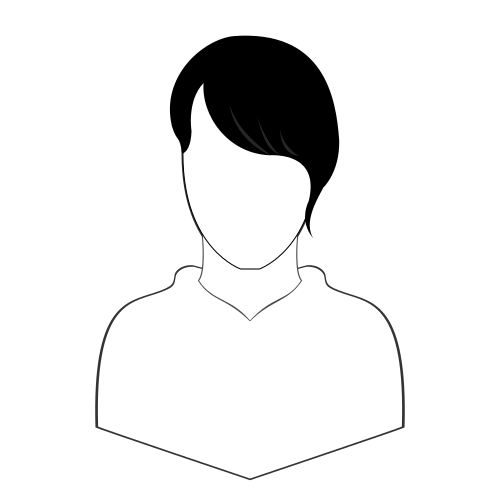
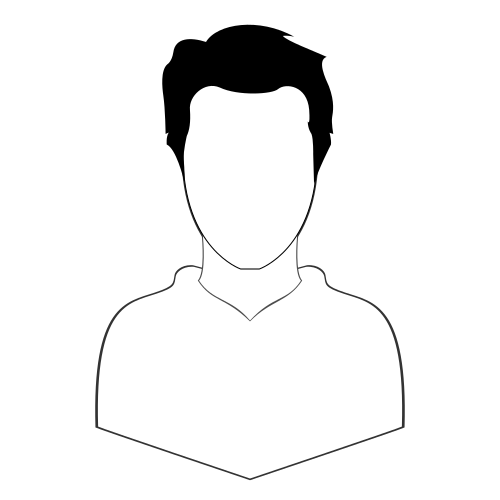
Intégration pagination

Changed region(s): [[0.3, 0.03, 0.69, 0.48]]

diff --git a/pages/user/avatar.vue b/pages/user/avatar.vue
@@ -15,10 +15,11 @@
                     </div>
                     <!-- Modal body -->
                     <div id="modalBoxContent" class="modal-body">
+
                         <div class="flex-container-modal-MyTeam">
                             <h1>{{ $t('pages.user-avatar.want_to_change_your_mind') }}</h1>
                         </div>
-						<div class="flex-container-modalAvatar">
+						<div class="flex-container-modalAvatar" v-cloak>
 							<div class="flex-container-modalMenuAvatar no-border">
 								<div style="flex-grow: 1; cursor: pointer;" :class="{active: this.gender === 'female'}" @click="selectGender('female')"><span class="textModalMenuAvatar">{{ $t('pages.user-avatar.female') }}</span></div>
 								<div style="flex-grow: 1; cursor: pointer;" :class="{active: this.gender === 'male'}" @click="selectGender('male')"><span class="textModalMenuAvatar">{{ $t('pages.user-avatar.male') }}</span></div>
@@ -37,28 +38,53 @@
 								<div style="flex-grow: 1; cursor: pointer;" :class="{active: this.bodyPart === 'hair'}" @click="selectBodyPart('hair')"><span class="textModalMenuAvatar">{{ $t('pages.user-avatar.hair') }}</span></div>
 							</div>
                         </div>
-                        <!-- <p style="color: #000;">{{ this.hair }}</p> -->
-                        <p style="color: #000;">{{ this.face }}</p>
-                        <!-- <p style="color: #000;">{{ this.haircut }}</p> -->
-                        <!-- <p style="color: #000;">{{ this.haircolor }}</p> -->
+
+                        <br /><br />
+                        <!-- Display dummy text while loading -->
+                        <div v-if="loadedAvatars.length == 0">
+                            <h1 class="text-center" style="color: #000;">Loading...</h1>
+                            <!-- <content-placeholders>
+                                <content-placeholders-heading :img="true" />
+                                <content-placeholders-text :lines="3" />
+                            </content-placeholders> -->
+                        </div>
+
                         <div class="flex-container-modalAvatarImg" v-if="this.bodyPart === 'hair'">
-                            <!-- <div class="col-md-6" style="cursor: pointer; background: yellow">yellow</div> -->
-                            <!-- <div class="col-md-6" style="cursor: pointer; background: red">red</div> -->
+                            <p style="color: #000;">{{ this.hair }}</p>
                             <div style="width: 50%;">
-                                <div v-for="avatar in loadedAvatars.filter(avatar => avatar.property === 'haircut')" style="cursor: pointer;" @click="addToMerge(avatar.gender, avatar.type, avatar.image, avatar.imageSmall, avatar.name)"><img :src="'/images/avatars/' + avatar.gender + '/' + avatar.type + '/' + avatar.imageSmall" class="imgModalAvatar" /></div>
+                                <div v-for="avatar in loadedAvatars.filter(avatar => avatar.property === 'haircut')" style="cursor: pointer;" @click="addToMerge(avatar.gender, avatar.type, avatar.image, avatar.imageSmall, avatar.name)"><img :src="'/images/avatars/' + avatar.gender + '/' + avatar.type + '/' + avatar.imageSmall" class="imgModalAvatar" :class="{active: (avatar.name === 'hair_cut' + haircut) }" /></div>
+                                }
                             </div>
                             <div style="width: 50%;">
-                                <div v-for="avatar in loadedAvatars.filter(avatar => avatar.property === 'color')" style="cursor: pointer;" @click="addToMerge(avatar.gender, avatar.type, avatar.image, avatar.imageSmall, avatar.name)"><img :src="'/images/avatars/' + avatar.gender + '/' + avatar.type + '/' + avatar.imageSmall" class="imgModalAvatar" /></div>
+                                <div v-for="avatar in loadedAvatars.filter(avatar => avatar.property === 'color')" style="cursor: pointer;" @click="addToMerge(avatar.gender, avatar.type, avatar.image, avatar.imageSmall, avatar.name)"><img :src="'/images/avatars/' + avatar.gender + '/' + avatar.type + '/' + avatar.imageSmall" class="imgModalAvatar" :class="{active: (avatar.name === 'hair_color' + haircolor) }" /></div>
+                            </div>
+                        </div>
+                        <div class="flex-container-modalAvatarImg" v-else>
+                            <div v-for="avatar in loadedAvatars2" style="cursor: pointer;" @click="addToMerge(avatar.gender, avatar.type, avatar.image, avatar.imageSmall, avatar.name)"><img :src="'/images/avatars/' + avatar.gender + '/' + avatar.type + '/' + avatar.imageSmall" class="imgModalAvatar" :class="{active: (avatar.name === background ||  avatar.name === body || avatar.name === skin || avatar.name === eyes || avatar.name === mouth || avatar.name === face || avatar.name === hair) }" />
                             </div>
                         </div>
 
-                        <br /><br /><hr><br /><br />
-
-                        <div class="flex-container-modalAvatarImg">
-                            <div v-for="avatar in loadedAvatars" style="cursor: pointer;" @click="addToMerge(avatar.gender, avatar.type, avatar.image, avatar.imageSmall, avatar.name)"><img :src="'/images/avatars/' + avatar.gender + '/' + avatar.type + '/' + avatar.imageSmall" class="imgModalAvatar" :class="{active: (avatar.name === background ||  avatar.name === body || avatar.name === skin || avatar.name === eyes || avatar.name === mouth || avatar.name === face || avatar.name === hair) }" />
+                         <div style="color: #000;">
+                                <h3>loadedAvatars.length: {{ loadedAvatars.length }}</h3><br />
+                                <h3>totalPages: {{ totalPages }}</h3><br />
+                                <!-- <h3>avatars: {{ this.avatars }}</h3><br /> -->
                             </div>
-                        </div>
-                        
+
+                        <br /><br /><hr><br />
+                        <paginate
+                              :page-count="totalPages"
+                              :click-handler="changePage"
+                              :prev-text="'Prev'"
+                              :next-text="'Next'"
+                              :container-class="'pagination pagination-sm'"
+                              :page-class="'page-item'" 
+                              :prev-class="'page-item'" 
+                              :next-class="'page-item'"
+                              :page-link-class="'page-link'" 
+                              :prev-link-class="'page-link'" 
+                              :next-link-class="'page-link'"
+                            >
+                        </paginate>
                     </div>
                     <!-- Modal footer -->
                     <div class="modal-footer">
@@ -82,8 +108,12 @@
     import mergeImages from 'merge-images'
     import moment from 'moment'
     import Noty from 'noty'
+    // import contentPlaceholders from '~/plugins/vue-placeholders.js'
+    import Paginate from 'vuejs-paginate'
     export default {
         layout: 'layoutFront',
+        // components: { contentPlaceholders },
+        components: { Paginate },
         created () {
             const avatarsArray = []
             firebase.database().ref('avatars').once('value', function (snapshot) {
@@ -98,8 +128,7 @@
             if (this.$store.getters['users/loadedUser'].avatar) {
                 const array = this.$store.getters['users/loadedUser'].avatar.name.split('_')
                 console.log(array)
-                if (array.length >= 11) {
-                    this.gender = ''
+                if (array.length >= 9) {
                     this.gender = array[1]
                     this.background = array[2]
                     this.body = array[3]
@@ -109,8 +138,10 @@
                     this.face = array[7]
                     // this.cache = array[8]
                     this.hair = array[8]
-					this.cache = array[9]
-					this.thisisfan = array[10]
+                    this.haircut = this.hair ? this.hair.match(/\d+/)[0].substr(0, 2) : '01'
+                    this.haircolor = this.hair ? this.hair.match(/\d+/)[0].substr(2, 4) : '01'
+					// this.cache = array[9]
+					// this.thisisfan = array[10]
 
                     this.obj = [
                         { "image": '/images/avatars/' + this.gender + '/background/' + this.background + '.png', 'gender': this.gender, 'type': 'background' },
@@ -121,12 +152,29 @@
                         { 'image': '/images/avatars/' + this.gender + '/face/' + this.face + '.png', 'gender': this.gender, 'type': 'face' }, 
                         // { 'image': '/images/avatars/' + this.gender + '/cache/' + this.cache + '.png', 'gender': this.gender, 'type': 'cache' }, 
                         { 'image': '/images/avatars/' + this.gender + '/hair/' + this.hair + '.png', 'gender': this.gender, 'type': 'hair' },
-						{ 'image': '/images/avatars/' + this.gender + '/cache/' + 'cache.png', 'gender': this.gender, 'type': 'cache' },
-						{ 'image': '/images/avatars/' + this.gender + '/thisisfan/' + 'thisisfan.png', 'gender': this.gender, 'type': 'thisisfan' }
+						// { 'image': '/images/avatars/' + this.gender + '/cache/' + 'cache.png', 'gender': this.gender, 'type': 'cache' },
+						// { 'image': '/images/avatars/' + this.gender + '/thisisfan/' + 'thisisfan.png', 'gender': this.gender, 'type': 'thisisfan' }
                     ]
+                    // console.log(this.hair)
+                    // console.log(this.haircut)
+                    // console.log(this.haircolor)
                     this.mergeImages()
-                }
-                // console.log(array)
+                } 
+            } else { // No previous avatar is registered
+                console.log('No defined avatar yet')
+                this.obj = [
+                    { "image": '/images/avatars/' + this.gender + '/background/' + this.background + '.png', 'gender': this.gender, 'type': 'background' },
+                    { 'image': '/images/avatars/' + this.gender + '/body/' + this.body + '.png', 'gender': this.gender, 'type': 'body' },
+                    { 'image': '/images/avatars/' + this.gender + '/skin/' + this.skin + '.png', 'gender': this.gender, 'type': 'skin' },
+                    { 'image': '/images/avatars/' + this.gender + '/eyes/' + this.eyes + '.png', 'gender': this.gender, 'type': 'eyes' }, 
+                    { 'image': '/images/avatars/' + this.gender + '/mouth/' + this.mouth + '.png', 'gender': this.gender, 'type': 'mouth' }, 
+                    { 'image': '/images/avatars/' + this.gender + '/face/' + this.face + '.png', 'gender': this.gender, 'type': 'face' }, 
+                    // { 'image': '/images/avatars/' + this.gender + '/cache/' + this.cache + '.png', 'gender': this.gender, 'type': 'cache' }, 
+                    { 'image': '/images/avatars/' + this.gender + '/hair/' + this.hair + '.png', 'gender': this.gender, 'type': 'hair' },
+                    { 'image': '/images/avatars/' + this.gender + '/cache/' + 'cache.png', 'gender': this.gender, 'type': 'cache' },
+                    { 'image': '/images/avatars/' + this.gender + '/thisisfan/' + 'thisisfan.png', 'gender': this.gender, 'type': 'thisisfan' }
+                ]
+                this.mergeImages()
             }
         },
         data () {
@@ -135,22 +183,24 @@
                 gender: 'female',
                 bodyPart: 'background',
                 name: '',
-                background: '',
-				body: '',
-                skin: '',
-                eyes: '',
-                mouth: '',
-                face: '',
+                background: 'background0',
+				body: 'body0',
+                skin: 'skin1',
+                eyes: 'eyes1',
+                mouth: 'mouth1',
+                face: 'face1',
                 // cache: '',
-                hair: '',
-                haircut: '',
-                haircolor: '',
+                hair: 'hair0101',
+                haircut: '01',
+                haircolor: '01',
 				cache: '',
 				thisisfan: '',
                 avatars: [],
                 arr: [],
                 obj: [],
-                progress: 0
+                progress: 0,
+                currentPage: 0,
+                itemsPerPage: 28,
             }
         },
         computed: {
@@ -160,11 +210,18 @@
             loadedAvatars () {
                 return this.avatars.filter(avatar => avatar.gender === this.gender && avatar.type === this.bodyPart)
             },
+            loadedAvatars2 () {
+                let index = this.currentPage * this.itemsPerPage
+                return this.avatars.filter(avatar => avatar.gender === this.gender && avatar.type === this.bodyPart).slice(index, index + this.itemsPerPage)
+            },
             disabled () {
-                return this.background == '' && this.body == '' && this.skin == '' && this.eyes == '' && this.mouth == '' && this.face == ''
+                return this.background == '' && this.body == '' && this.skin == '' && this.eyes == '' && this.mouth == '' && this.face == '' && this.hair == ''
             },
             loadedTeams () {
                 return this.$store.getters['teams/loadedTeams']
+            },
+            totalPages () {
+                return Math.ceil(this.loadedAvatars.length / this.itemsPerPage)
             }
         },
 	    methods: {
@@ -220,20 +277,16 @@
                 // } else if (name.includes('cache')) {
                 //  this.cache = name
                 } else if (name.includes('hair')) {
-                    console.log(name)
                     if (name.includes('hair_cut')) {
                         // Retrieve haircut integer in string
                         this.haircut = this.name.match(/\d+/)[0]
-                        console.log(this.haircut)
                     }
                     if (name.includes('hair_color')) {
                         // Retrieve haircolor integer in string
                         this.haircolor = this.name.match(/\d+/)[0]
-                        console.log(this.haircolor)
                     }
-                    console.log(this.name)
-                    console.log(image)
-                    image = 'hair' + this.haircut + this.haircolor + '.png'
+                    this.hair = 'hair' + this.haircut + this.haircolor
+                    image = this.hair + '.png'
                 } else if (name.includes('cache')) {
 					this.cache = name
 				} else if (name.include('thisisfan')) {
@@ -269,6 +322,7 @@
             },
             mergeImages() {
                 // Build an array of image paths from the object
+                // console.log('mergeImages')
                 this.arr = []
                 // this.arr = this.obj
                 for (let i = 0; i < this.obj.length; i++) {
@@ -289,7 +343,8 @@
                 // Save image in Firebase Cloud Storage
                 const now = moment().unix()
                 const userId = firebase.auth().currentUser.uid
-                const image_name = userId + '_' + this.gender + '_' + this.background + '_' + this.body + '_' + this.skin + '_' + this.eyes + '_' + this.mouth + '_' + this.face + '_' + this.hair + '_' + this.cache + '_' + this.thisisfan
+                // const image_name = userId + '_' + this.gender + '_' + this.background + '_' + this.body + '_' + this.skin + '_' + this.eyes + '_' + this.mouth + '_' + this.face + '_' + this.hair + '_' + this.cache + '_' + this.thisisfan
+                const image_name = userId + '_' + this.gender + '_' + this.background + '_' + this.body + '_' + this.skin + '_' + this.eyes + '_' + this.mouth + '_' + this.face + '_' + this.hair
                 console.log(image_name)
                 let storageRef = firebase.storage().ref('/images/avatars/' + image_name)
                 let image = this.$refs.mergedImage.src
@@ -314,23 +369,62 @@
                   console.log(error)
                   this.loading = false
                 }, () => {
+                    // Delete old avatar if it exists
+                    if (this.loadedUser.avatar) {
+                        var oldImageRef = firebase.storage().ref('/images/avatars/' + this.loadedUser.avatar.name)
+                        oldImageRef.delete().then(function() {
+                            console.log('Successfully deleted old image')
+                        }).catch(function(error) {
+                            console.log('An error occured and the old image could not be deleted:')
+                            console.log(error)
+                        })
+                    }
+
                     // Handle successful uploads on complete
                     firebase.database().ref('/users/' + userId + '/avatar').set({
                         name: uploadTask.snapshot.metadata.name,
                         url: uploadTask.snapshot.downloadURL,
                         updated_at: now,
                     })
+
                     // console.log('Uploaded a data_url string!')
                     this.loading = false
                     new Noty({type: 'success', text: 'Successfully uploaded image!', timeout: 5000, theme: 'metroui'}).show()
                 })
-            }
+            },
+            changePage (page) {
+                console.log(page)
+                this.currentPage = page
+                let index = this.currentPage * this.itemsPerPage
+                console.log(index)
+                console.log(this.loadedAvatars.slice(index, index + this.itemsPerPage))
+                this.loadedAvatars.slice(0, 0 + this.itemsPerPage)
+            },
         }
     }
 </script>
 
 <style scoped>
+    [v-cloak] > * { display:none; }
+    [v-cloak]::before { 
+        content: " ";
+        display: block;
+        width: 16px;
+        height: 16px;
[1 lines of base64/hex data omitted]
+    }
     .active {
         background-color: orangered;
+        border: 2px solid red;
+    }
+    .pagination {
+        margin: 0;
+    }
+    .page-link {
+        font-size: 12px !important;
+    }
+    .page-item.active .page-link {
+        background-color: #387BCA;
+        border-color: #387BCA;
     }
 </style>

diff --git a/pages/home.vue b/pages/home.vue
@@ -28,7 +28,8 @@
 		<div id="proprieteJoueur" class="col-12 col-sm-12 col-md-12 col-lg-12">
 
 			<div class="flex-container-playerPropriety">
-				<nuxt-link to="/user/avatar" class="boxShadow" style="flex-basis: 60px" v-if="user"><img src="" class="imgAvatar"/></nuxt-link>
+				<nuxt-link to="/user/avatar" class="boxShadow" style="flex-basis: 60px" v-if="user.avatar"><img :src="user.avatar.url" class="imgAvatar"/></nuxt-link>
+				<nuxt-link to="/user/avatar" class="boxShadow" style="flex-basis: 60px" v-else><img src="/images/avatar.png" class="imgAvatar"/></nuxt-link>
 				<nuxt-link to="/user" class="boxShadow flex-container-modalProfil" style="flex-grow: 1">
 					<div class="columnProfil"><img src="/images/163.png" class="imgModalProprieteFlags"/> <span class="modal-Propriete" v-if="user">{{ user.pseudo }}</span> <span class="modal-ProprietePlace boxShadow"><img src="/images/cup.png" class="imgModalProprieteCup"/> 1863ème</span></div>
 				</nuxt-link>

diff --git a/nuxt.config.js b/nuxt.config.js
@@ -178,6 +178,7 @@ module.exports = {
     { src: '~/plugins/vue-fullpage.js', ssr: false },
     // { src: '~/plugins/merge-images', ssr: false },
     { src: '~/plugins/vue2-jsoneditor.js', ssr: false },
+    // { src: '~/plugins/vue-placeholders.js', ssr: false },
   ],
   serverMiddleware: [
       '~/serverMiddleware/validateFirebaseIdToken',

diff --git a/plugins/vue-placeholders.js b/plugins/vue-placeholders.js
@@ -1,0 +1,4 @@
+// import Vue from 'vue'
+// import VueContentPlaceholders from 'vue-content-placeholders'
+
+// Vue.use(VueContentPlaceholders)
